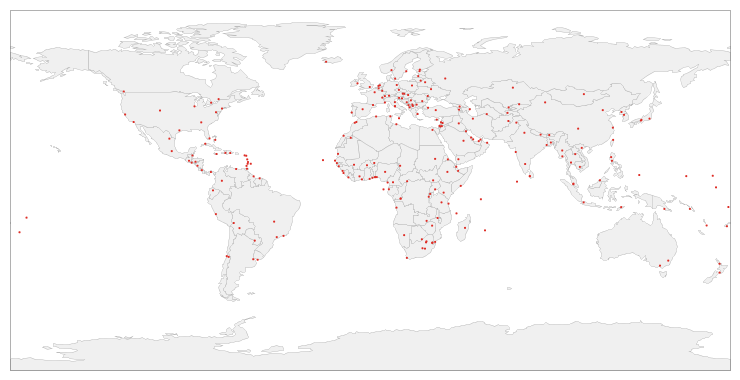
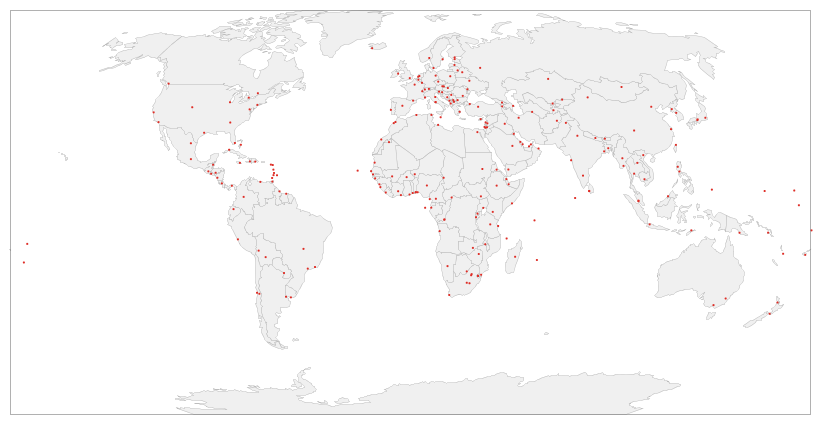
Updated using Robinson projection

diff --git a/src/uk/me/dillingham/thematicmap/sketches/ThematicMapLayersSketch.java b/src/uk/me/dillingham/thematicmap/sketches/ThematicMapLayersSketch.java
@@ -12,31 +12,27 @@ public class ThematicMapLayersSketch extends PApplet
 
     public void setup()
     {
-        size(740, 380);
-
-        Rectangle2D.Float geoBounds = new Rectangle2D.Float(-180, -90, 360, 180);
-
-        Rectangle2D.Float screenBounds = new Rectangle2D.Float(10, 10, 720, 360);
+        size(820, 424);
 
         // Initialise map
 
         countriesLakes = new ThematicMap(this);
 
-        countriesLakes.setGeoBounds(geoBounds);
+        countriesLakes.read("ne_110m_admin_0_countries_lakes/ne_110m_admin_0_countries_lakes_robinson.shp");
 
-        countriesLakes.setScreenBounds(screenBounds);
+        countriesLakes.setGeoBounds(countriesLakes.getMBR());
 
-        countriesLakes.read("ne_110m_admin_0_countries_lakes/ne_110m_admin_0_countries_lakes.shp");
+        countriesLakes.setScreenBounds(new Rectangle2D.Float(10, 10, 800, 404));
 
         // Initialise map
 
         populatedPlaces = new ThematicMap(this);
 
-        populatedPlaces.setGeoBounds(geoBounds);
+        populatedPlaces.read("ne_110m_populated_places/ne_110m_populated_places_robinson.shp");
 
-        populatedPlaces.setScreenBounds(screenBounds);
+        populatedPlaces.setGeoBounds(countriesLakes.getGeoBounds());
 
-        populatedPlaces.read("ne_110m_populated_places/ne_110m_populated_places.shp");
+        populatedPlaces.setScreenBounds(countriesLakes.getScreenBounds());
 
         textAlign(LEFT, TOP);
 
